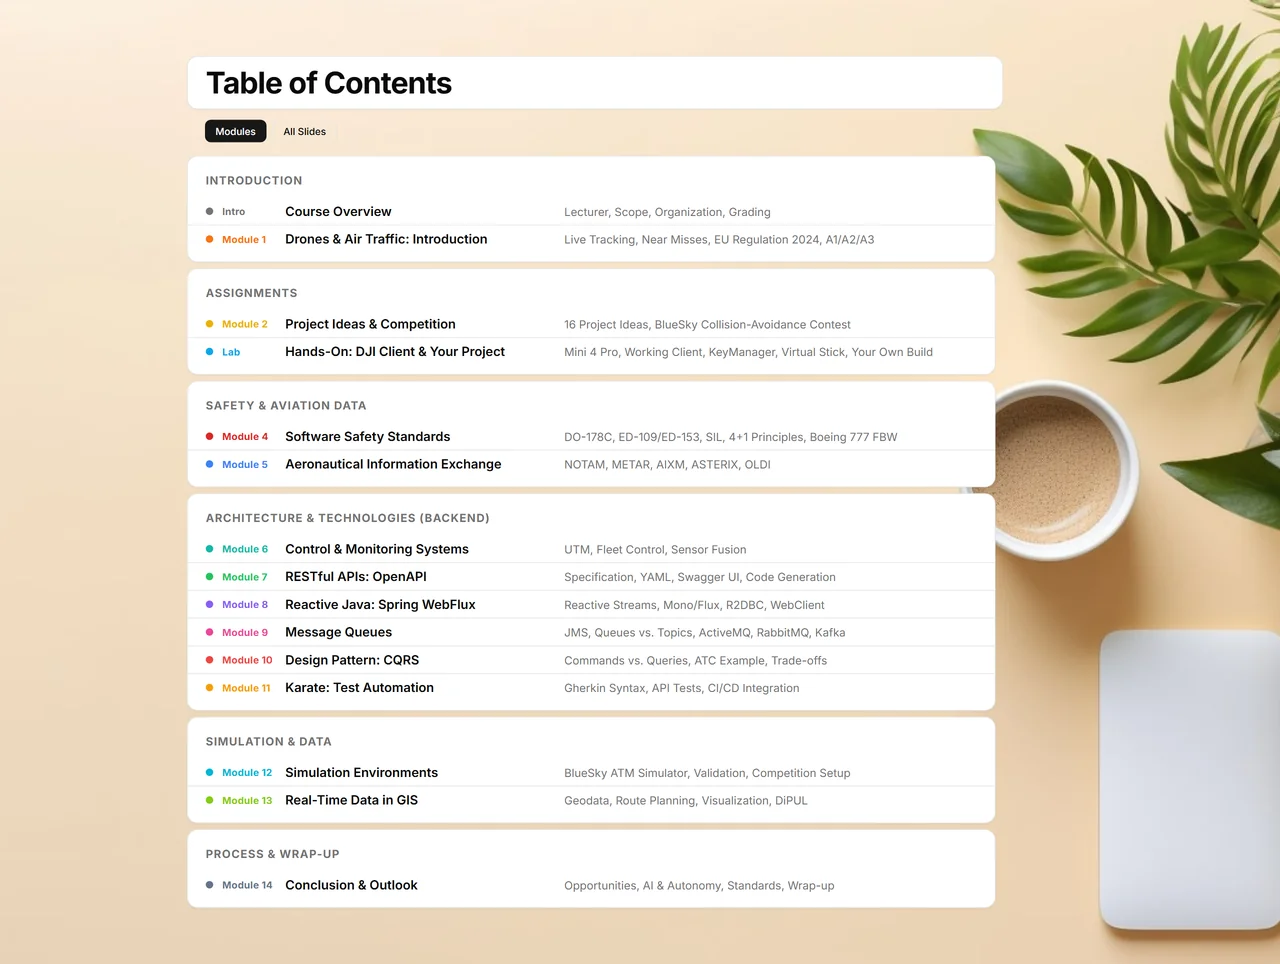
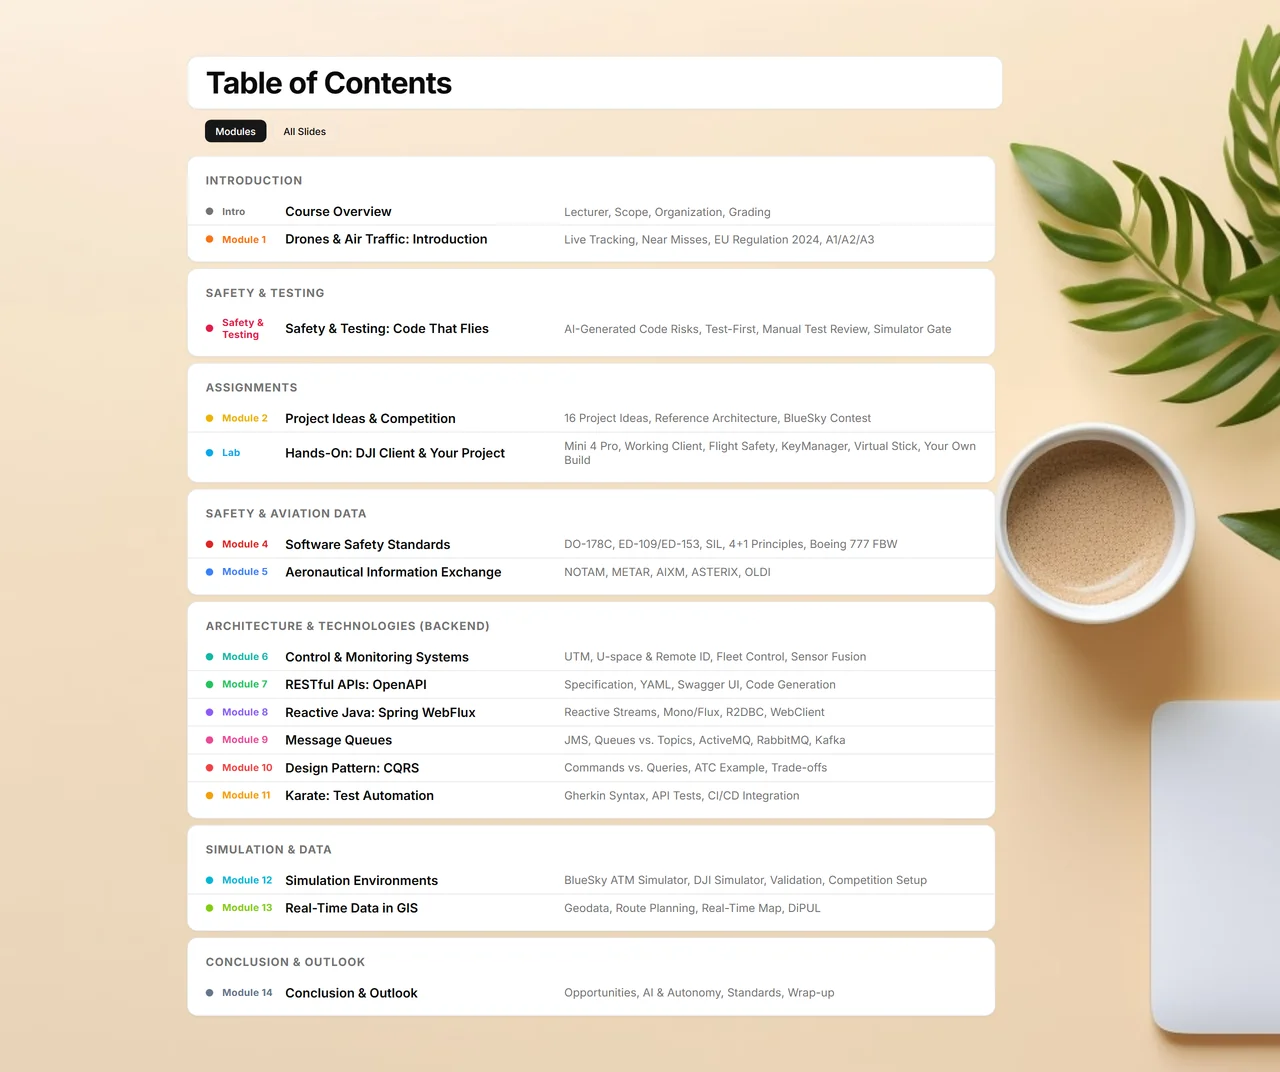
TOC: align long module labels — fix Safety & Testing row indent
.toc-label was min-width only, so the wide "Safety & Testing" label
pushed its title and topics ~50px right of the other rows. Fix the
label column at 72px and let long labels wrap. Bump style.css to v=3,
refresh README TOC screenshot.

Claude-Session: https://claude.ai/code/session_014HLbSpk3DaUvsxu714kVrh

Changed region(s): [[0.125, 0.0, 1.0, 0.9959]]

diff --git a/slides/css/style.css b/slides/css/style.css
@@ -214,7 +214,7 @@ html, body {
 .toc-slide-row:last-child { border-bottom: none; }
 .toc-row[onclick]:hover { background: var(--accent); border-radius: 6px; }
 .toc-dot { width: 10px; height: 10px; border-radius: 50%; flex-shrink: 0; }
-.toc-label { font-weight: 700; font-size: 13px; min-width: 72px; flex-shrink: 0; letter-spacing: 0.02em; }
+.toc-label { font-weight: 700; font-size: 13px; width: 72px; min-width: 72px; flex-shrink: 0; letter-spacing: 0.02em; line-height: 1.25; }
 .toc-title { font-weight: 600; color: var(--foreground); min-width: 360px; flex-shrink: 0; }
 .toc-topics { color: var(--muted-foreground); font-size: 15px; }
 

diff --git a/slides/index.html b/slides/index.html
@@ -4,7 +4,7 @@
 <meta charset="UTF-8">
 <meta name="viewport" content="width=device-width, initial-scale=1.0">
 <title>Innovative Technologies for Drones: Air Traffic Modeling</title>
-<link rel="stylesheet" href="css/style.css?v=2">
+<link rel="stylesheet" href="css/style.css?v=3">
 </head>
 <body>
 <div id="progress"></div>
